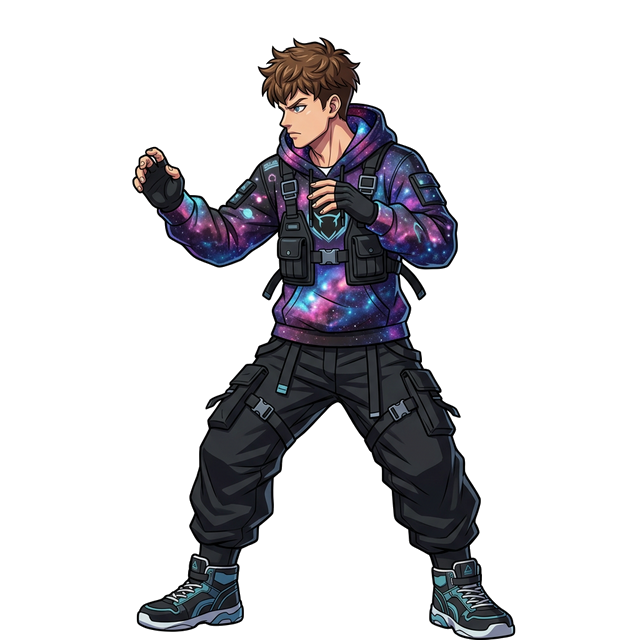
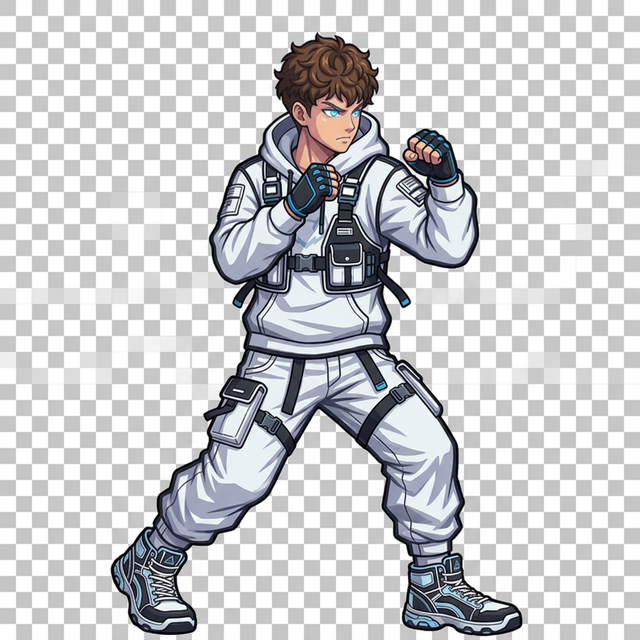
feat: Supreme Keano redesign - new sprites, multi-frame animation system
- 12 new sprite poses (no cosmic aura, clean white tactical hoodie)
- Multi-frame attack animations (startup→active→recovery cycling)
- Breathing idle animation (alternates between 2 frames)
- Dive kick sprite for air attacks
- Hook punch & low sweep for fluid light/heavy attack transitions
- All other characters completely unaffected

diff --git a/js/entities/Fighter.js b/js/entities/Fighter.js
@@ -335,22 +335,102 @@ export default class Fighter {
             // ALL States now use ctx.scale(facing) to mirror 
             // We use the ONE SOURCE OF TRUTH for every pose.
             // By convention, almost all single-pose images in the asset pack face RIGHT.
-            if (this.state === 'IDLE' || this.state === 'WALK' || this.state === 'JUMP') {
-                suffix = '_right.png'; // Use combat fighting stance (faces opponent)
-            } else if (this.state === 'ATTACK') {
-                if (this.currentAttack && this.currentAttack.type === 'SPECIAL') suffix = '_special.png';
-                else if (this.currentAttack && this.currentAttack.type === 'HEAVY') suffix = '_kick.png';
-                else suffix = '_punch.png';
-            } else if (this.state === 'HIT') {
-                suffix = '_hit.png';
-            } else if (this.state === 'KO') {
-                suffix = '_ko.png';
-            } else if (this.state === 'WIN') {
-                suffix = '_win.png';
+
+            // ─── SUPREME KEANO: Multi-frame animation system ───
+            if (this.data.id === 'SupremeKeano') {
+                // Supreme Keano has extra sprites for fluid frame-by-frame animation
+                const imgs = this.game.assetManager.images;
+
+                if (this.state === 'IDLE' || this.state === 'WALK') {
+                    // Breathing animation: alternate between _right and _left every 0.6s
+                    const breathFrame = Math.floor(this.stateTimer / 0.6) % 2;
+                    suffix = breathFrame === 0 ? '_right.png' : '_left.png';
+                } else if (this.state === 'JUMP') {
+                    // Use dive kick sprite if attacking in the air, otherwise idle
+                    if (this.currentAttack) {
+                        const diveImg = imgs['SupremeKeano_keano_dive_kick'];
+                        if (diveImg) {
+                            suffix = '__CUSTOM__';
+                            spriteImage = diveImg;
+                        } else {
+                            suffix = '_kick.png';
+                        }
+                    } else {
+                        suffix = '_right.png';
+                    }
+                } else if (this.state === 'ATTACK') {
+                    const phase = this.stateTimer;
+                    const startup = this.currentAttack ? this.currentAttack.startup : 0.05;
+                    const active = this.currentAttack ? this.currentAttack.active : 0.15;
+                    const totalActive = startup + active;
+
+                    if (this.currentAttack && this.currentAttack.type === 'LIGHT') {
+                        // LIGHT ATTACK: idle → hook → jab → idle
+                        if (phase < startup) {
+                            // Startup: wind up (hook pose)
+                            const hookImg = imgs['SupremeKeano_keano_hook_punch'];
+                            if (hookImg) { suffix = '__CUSTOM__'; spriteImage = hookImg; }
+                            else suffix = '_right.png';
+                        } else if (phase < totalActive) {
+                            // Active: jab lands
+                            suffix = '_punch.png';
+                        } else {
+                            // Recovery: return to stance
+                            suffix = '_right.png';
+                        }
+                    } else if (this.currentAttack && this.currentAttack.type === 'HEAVY') {
+                        // HEAVY ATTACK: idle → low sweep → roundhouse
+                        if (phase < startup) {
+                            // Startup: crouch down (low kick pose)
+                            const lowImg = imgs['SupremeKeano_keano_low_kick'];
+                            if (lowImg) { suffix = '__CUSTOM__'; spriteImage = lowImg; }
+                            else suffix = '_right.png';
+                        } else if (phase < totalActive) {
+                            // Active: roundhouse kick
+                            suffix = '_kick.png';
+                        } else {
+                            // Recovery
+                            suffix = '_right.png';
+                        }
+                    } else if (this.currentAttack && this.currentAttack.type === 'SPECIAL') {
+                        suffix = '_special.png';
+                    } else {
+                        suffix = '_punch.png';
+                    }
+                } else if (this.state === 'HIT') {
+                    suffix = '_hit.png';
+                } else if (this.state === 'KO') {
+                    suffix = '_ko.png';
+                } else if (this.state === 'WIN') {
+                    suffix = '_win.png';
+                }
+
+                // Only look up by key if we didn't already set a custom spriteImage
+                if (suffix !== '__CUSTOM__') {
+                    const exactKey = `${this.data.id}${suffix}`;
+                    const fallbackKey = `${this.data.id}${suffix}_fallback`;
+                    spriteImage = imgs[exactKey] || imgs[fallbackKey];
+                }
+
+            } else {
+                // ─── STANDARD CHARACTERS: Single image per state ───
+                if (this.state === 'IDLE' || this.state === 'WALK' || this.state === 'JUMP') {
+                    suffix = '_right.png'; // Use combat fighting stance (faces opponent)
+                } else if (this.state === 'ATTACK') {
+                    if (this.currentAttack && this.currentAttack.type === 'SPECIAL') suffix = '_special.png';
+                    else if (this.currentAttack && this.currentAttack.type === 'HEAVY') suffix = '_kick.png';
+                    else suffix = '_punch.png';
+                } else if (this.state === 'HIT') {
+                    suffix = '_hit.png';
+                } else if (this.state === 'KO') {
+                    suffix = '_ko.png';
+                } else if (this.state === 'WIN') {
+                    suffix = '_win.png';
+                }
+                const exactKey = `${this.data.id}${suffix}`;
+                const fallbackKey = `${this.data.id}${suffix}_fallback`;
+                spriteImage = this.game.assetManager.images[exactKey] || this.game.assetManager.images[fallbackKey];
             }
-            const exactKey = `${this.data.id}${suffix}`;
-            const fallbackKey = `${this.data.id}${suffix}_fallback`;
-            spriteImage = this.game.assetManager.images[exactKey] || this.game.assetManager.images[fallbackKey];
 
             // If a specific Kick or Special sprite is missing, fall back to the basic Punch sprite!
             if (!spriteImage && this.state === 'ATTACK') {

diff --git a/js/states/Combat.js b/js/states/Combat.js
@@ -723,6 +723,17 @@ export default class CombatState {
             }
         }
 
+        // ─── SUPREME KEANO: Preload extra animation frames ───
+        if (char.id === 'SupremeKeano') {
+            const extraFrames = ['keano_dive_kick', 'keano_low_kick', 'keano_hook_punch'];
+            for (const frame of extraFrames) {
+                const key = `SupremeKeano_${frame}`;
+                if (!this.game.assetManager.images[key]) {
+                    this.game.assetManager.queueImage(key, `assets/CHARACTERS/${char.folder}/${frame}.png`);
+                }
+            }
+        }
+
         // Preload Special Cut-in portrait
         // Manual mapping for inconsistencies in the `fx/char_projectiles` folder
         const idMap = {
